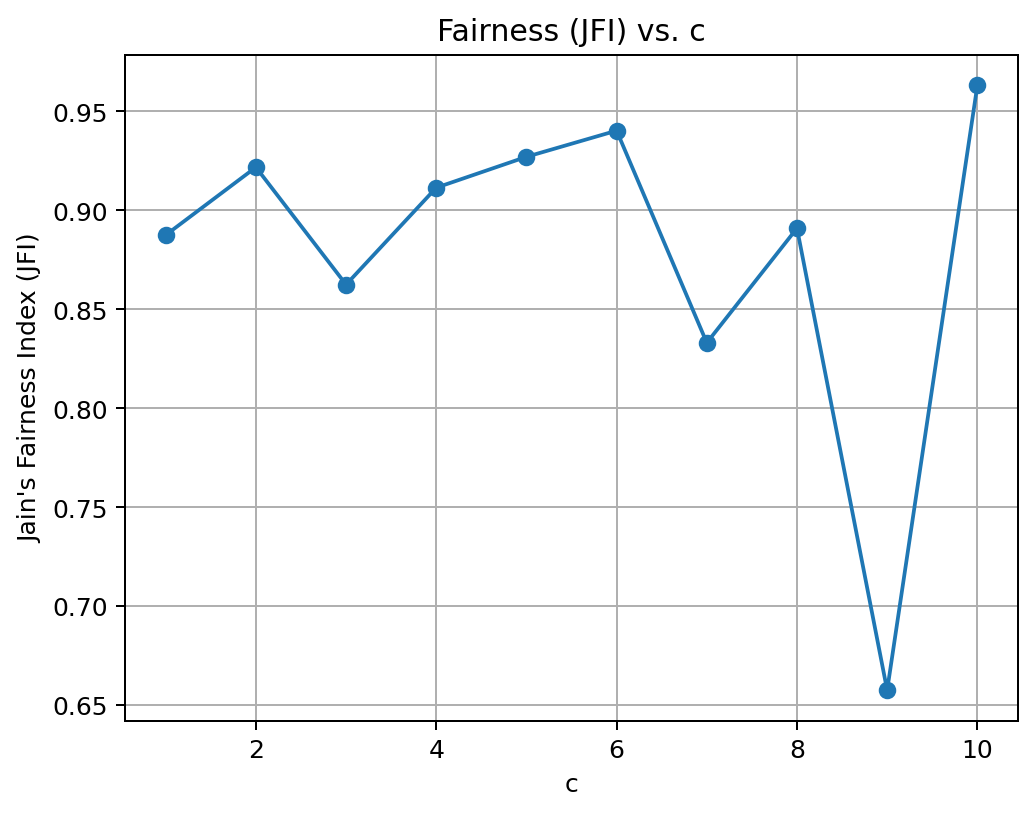
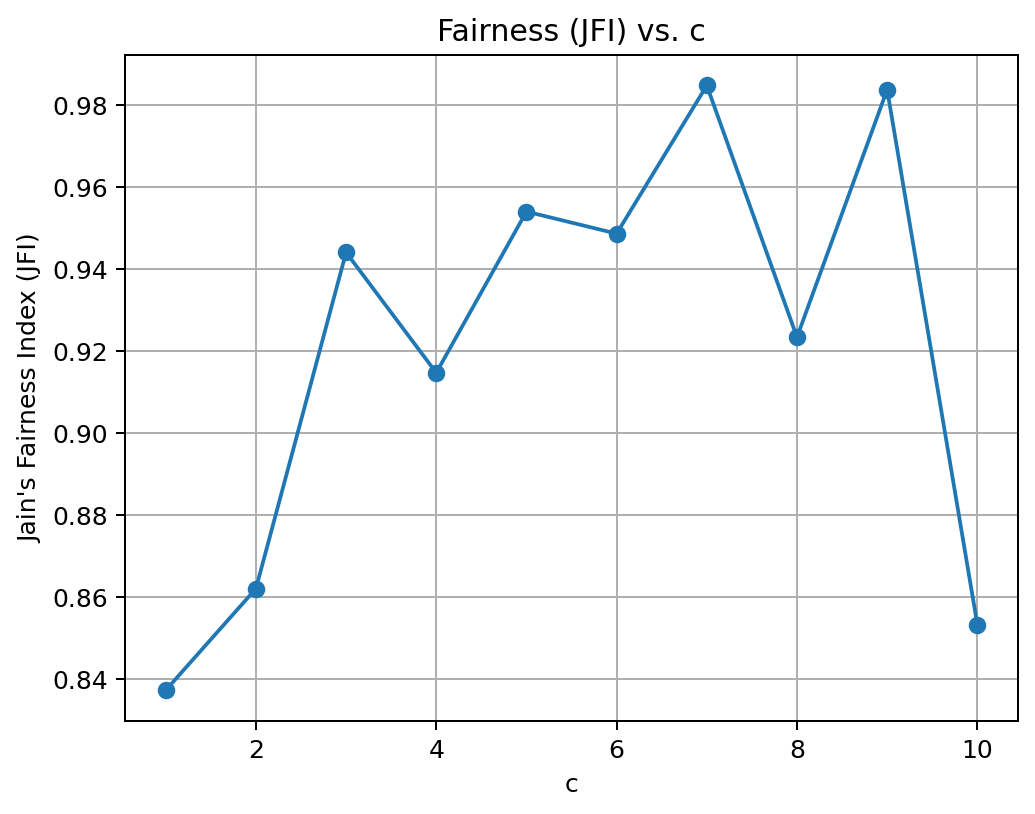
Only one greedy in part3

diff --git a/part3/runner.py b/part3/runner.py
@@ -39,9 +39,14 @@ def main():
             outputs = []
             modify_config("num_clients", num_clients)
             # launch clients concurrently
-            for i in range(1,num_clients+1):
+            for i in range(1, num_clients + 1):
                 h_client = net.get(f'h{i}')
-                cmd = CLIENT_CMD_TMPL.format(c=c)
+                if i == 1:
+                    # greedy client h1 sends c requests
+                    cmd = CLIENT_CMD_TMPL.format(c=c)
+                else:
+                    # all other clients send just 1 request
+                    cmd = CLIENT_CMD_TMPL.format(c=1)
                 p = h_client.popen(cmd, shell=True, stdout=subprocess.PIPE, stderr=subprocess.PIPE)
                 procs.append(p)
 
